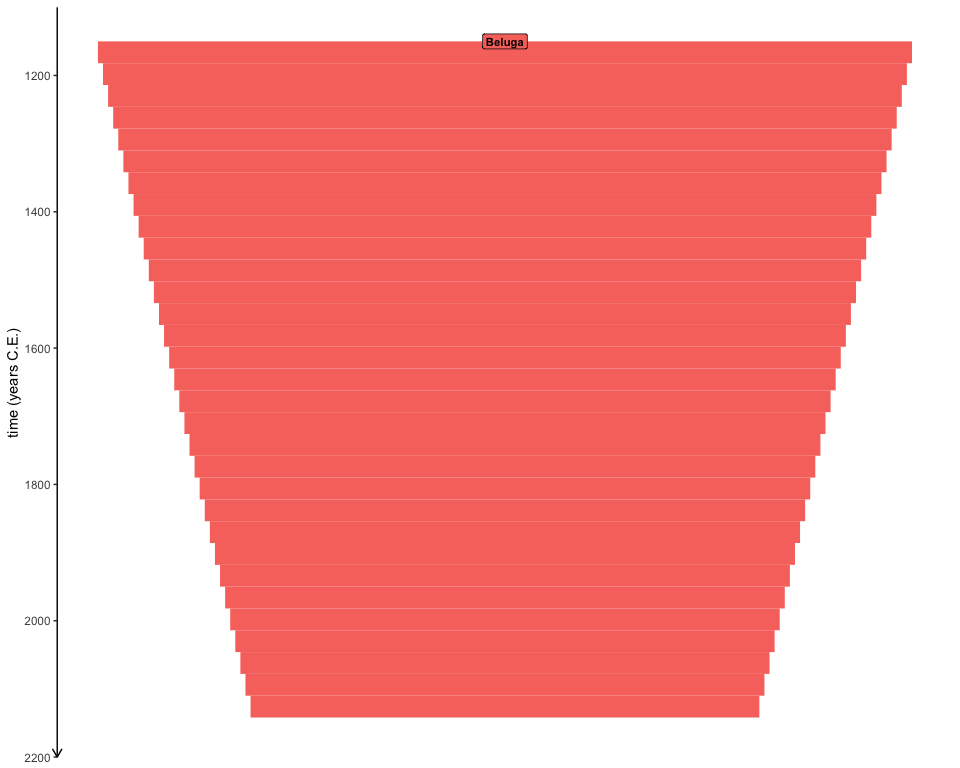
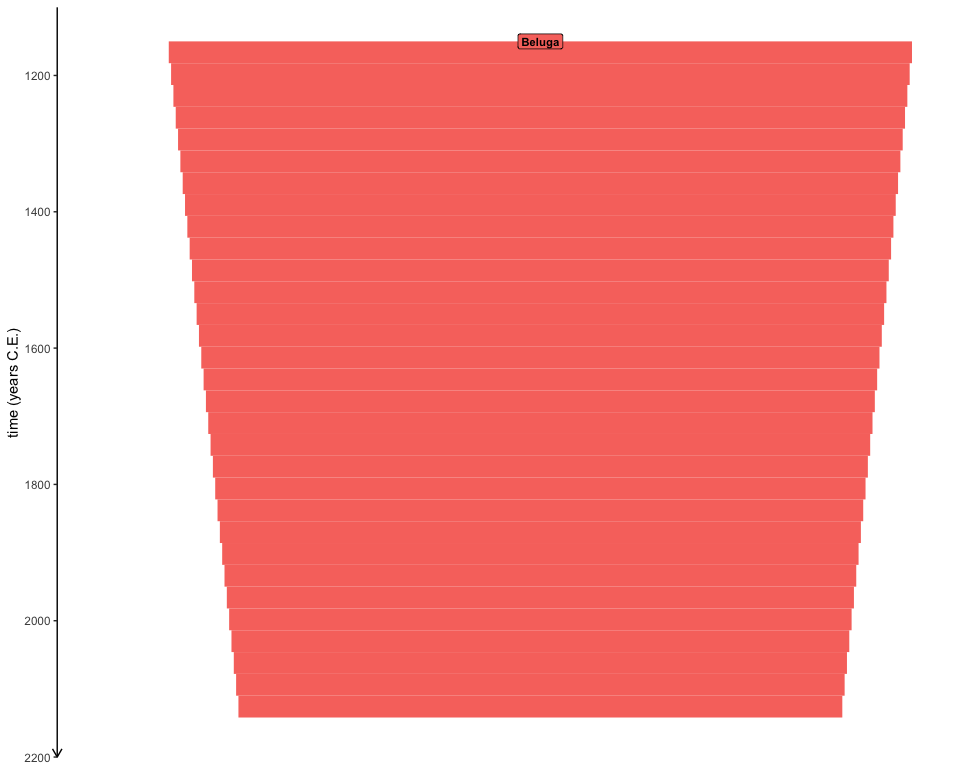
Update results

diff --git a/README.md b/README.md
@@ -572,7 +572,7 @@ is indicated by each “step” decrease in population size.*
 
 ``` r
 p_model <- pi_beluga %>%
-  filter(N_start == 40000, N_hunted == 500, census_ratio == 1.0, engine == "msprime") %>%
+  filter(N_start == 40000, N_hunted == 250, census_ratio == 1.0, engine == "msprime") %>%
   { .$model[[1]] } %>%
   plot_model(); p_model
 ```
